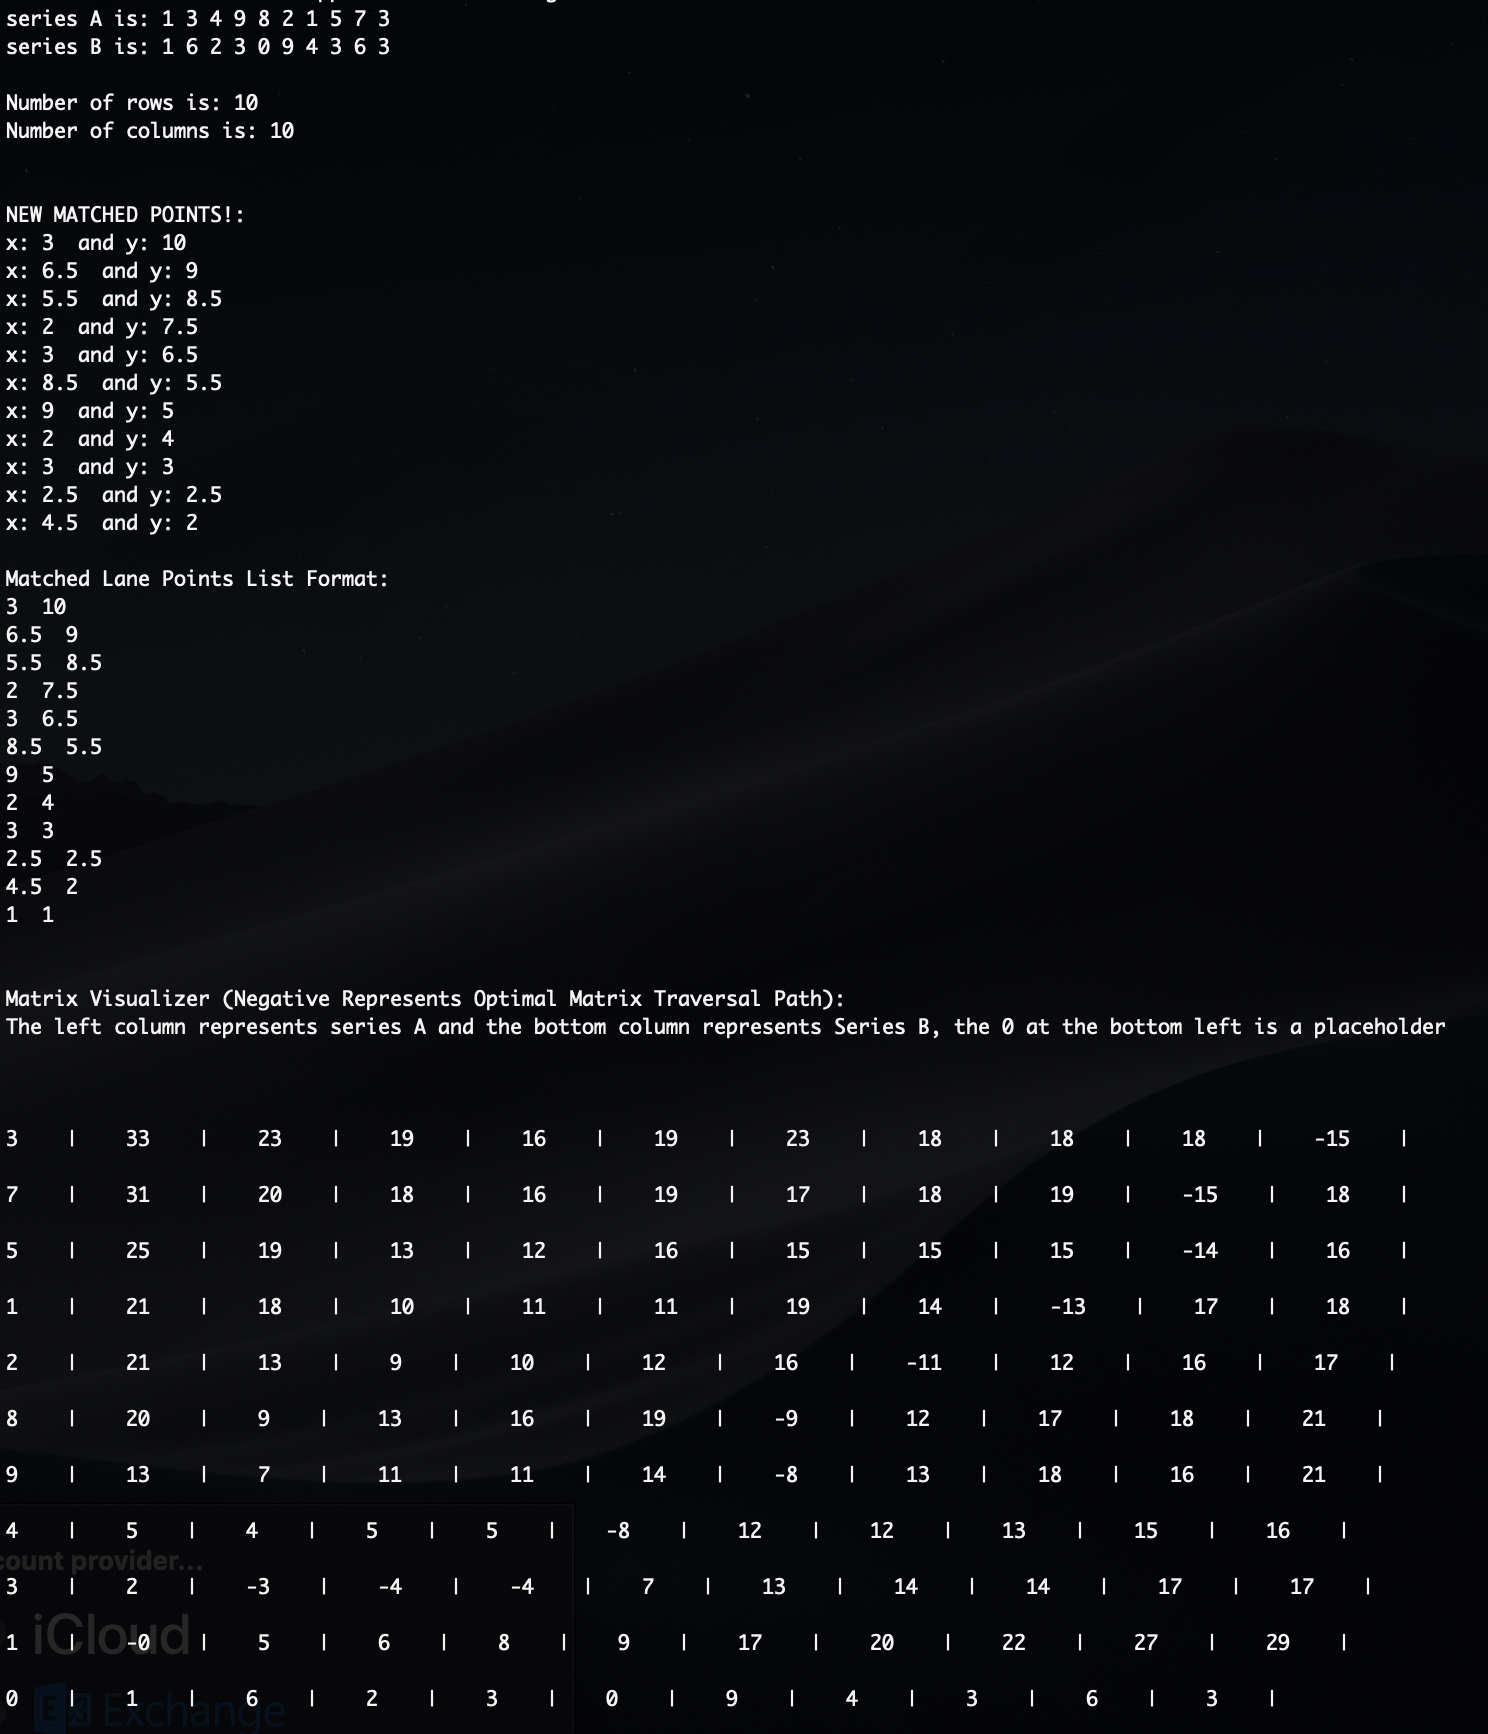
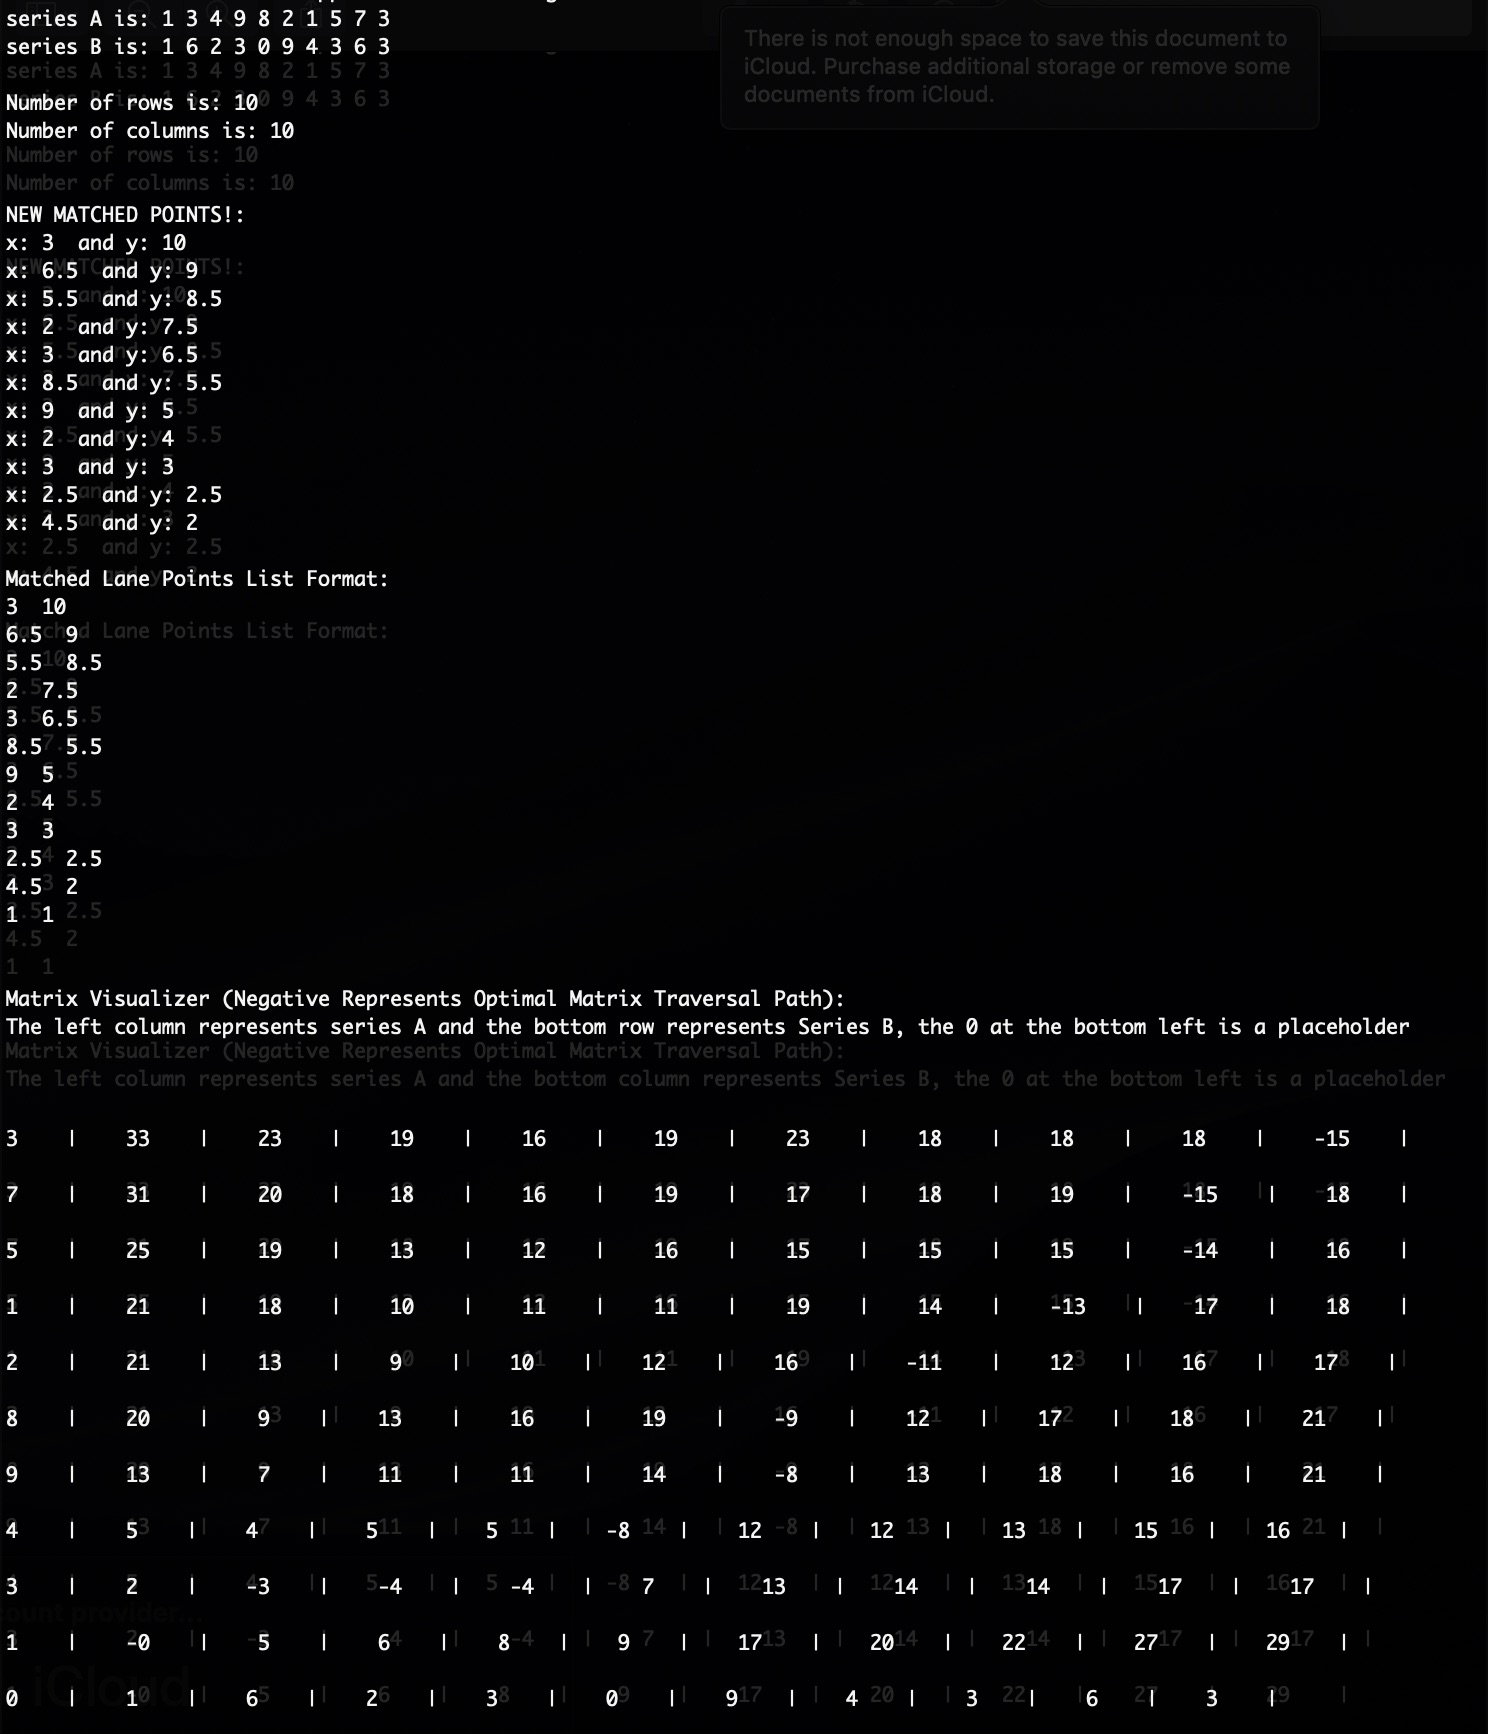
edit image

diff --git a/DTW_test.cpp b/DTW_test.cpp
@@ -371,7 +371,7 @@ vector<vector<double>> MatrixCreate(vector<double> SeriesA, vector<double> Serie
 
     cout << endl
          << "Matrix Visualizer (Negative Represents Optimal Matrix Traversal Path): " << endl
-         << "The left column represents series A and the bottom column represents Series B, the 0 at the bottom left is a placeholder"
+         << "The left column represents series A and the bottom row represents Series B, the 0 at the bottom left is a placeholder"
          << endl
          << endl
          << endl
